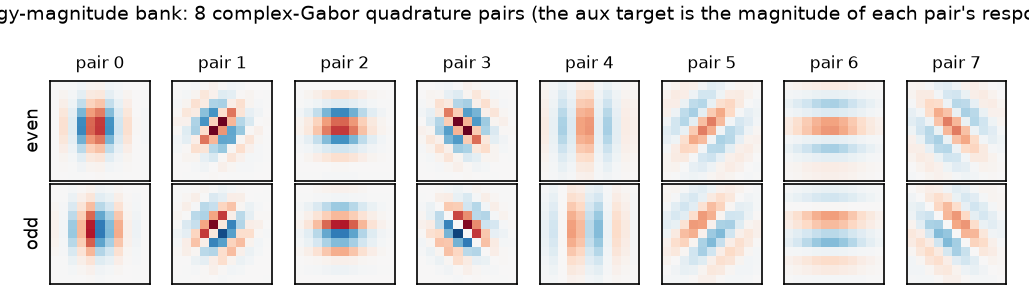
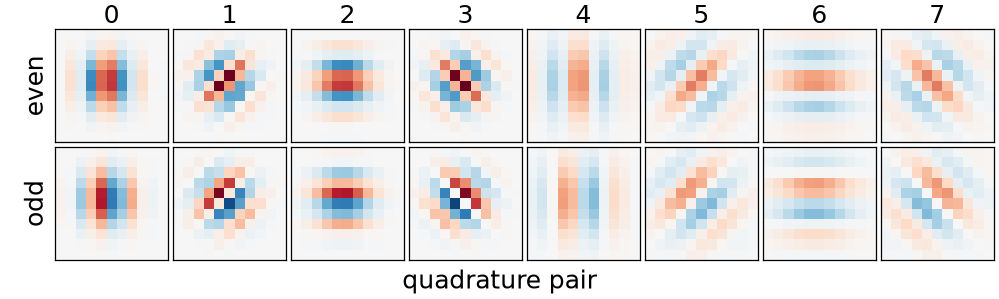
Figure 2: single column, panels packed edge to edge
Two changes, one motivating the other. Back to a single-column figure, and
the inter-panel padding cut from matplotlib's default to near zero: at
3.33in every point of padding is a point the 11x11 kernels do not get, and
the kernels are the entire content of this figure. tight_layout is
deliberately not used, since it reserves room for per-axes labels that the
shared row and column headings make unnecessary.

The filters are now larger than they were at full text width, because the
gaps were taking more of the figure than the width was giving. Also raised
to 300 dpi, since the panels are small enough for the kernel grid to alias
at 150.

diff --git a/analysis/visualize_features.py b/analysis/visualize_features.py
@@ -365,27 +365,35 @@ def fig_cam(models, test_ds, device, out, cell, dataset, loader,
 
 
 def fig_bank(out):
-    """The prior itself: 9 quadrature pairs of the energy-magnitude bank."""
+    """The prior itself: the quadrature pairs of the energy-magnitude bank.
+
+    Single-column, and the panels are packed nearly edge to edge: at 3.33in
+    every point of inter-axes padding is a point the 11x11 kernels do not get,
+    and the kernels are the content. tight_layout is deliberately NOT used
+    here -- it reserves space for labels that the shared row/column headings
+    have already made unnecessary.
+    """
     from momentstem import EnergyStem
 
     stem = EnergyStem(feature_type="magnitude")
     even, odd = stem.even.squeeze(1), stem.odd.squeeze(1)   # (n_pairs, k, k)
     n = even.shape[0]
-    fig, axes = plt.subplots(2, n, figsize=(FIGW_WIDE, FIGW_WIDE * 0.30))
+    fig, axes = plt.subplots(2, n, figsize=(FIGW, FIGW * 0.30))
     lim = float(max(even.abs().max(), odd.abs().max()))
     for i in range(n):
         for r, bank in enumerate((even, odd)):
             ax = axes[r, i]
             ax.imshow(bank[i].numpy(), cmap="RdBu_r", vmin=-lim, vmax=lim)
             ax.set_xticks([]), ax.set_yticks([])
-        axes[0, i].set_title(f"pair {i}", fontsize=8)
-    axes[0, 0].set_ylabel("even", fontsize=8.5)
-    axes[1, 0].set_ylabel("odd", fontsize=8.5)
-    fig.suptitle(f"energy-magnitude bank: {n} complex-Gabor quadrature pairs "
-                 "(the aux target is the magnitude of each pair's response)",
-                 fontsize=9)
-    fig.tight_layout()
-    fig.savefig(os.path.join(out, "bank_gabor.png"), dpi=150)
+            for sp in ax.spines.values():
+                sp.set_linewidth(0.3)
+        axes[0, i].set_title(f"{i}", fontsize=6, pad=1.5)
+    axes[0, 0].set_ylabel("even", fontsize=6, labelpad=1.5)
+    axes[1, 0].set_ylabel("odd", fontsize=6, labelpad=1.5)
+    fig.text(0.5, 0.035, "quadrature pair", ha="center", fontsize=6)
+    fig.subplots_adjust(left=0.055, right=0.995, top=0.90, bottom=0.13,
+                        wspace=0.04, hspace=0.04)
+    fig.savefig(os.path.join(out, "bank_gabor.png"), dpi=300)
     plt.close(fig)
 
 

diff --git a/paper/sections/s2_methods.tex b/paper/sections/s2_methods.tex
@@ -76,7 +76,7 @@ numerical values, so no measurement can silently drift with a library
 version.
 
 \subsection{The prior: MomentAux}\label{sec:momentaux}
-\begin{figure*}[t]
+\begin{figure}[t]
 \centering
 \includegraphics[width=\linewidth]{figs_explain/bank_gabor.png}
 \caption{The knowledge source, in full. The eight complex Gabor
@@ -88,7 +88,7 @@ is fixed before any training, identical for every dataset, backbone and
 data fraction in the study, and fingerprinted by a regression test so
 that no result silently changes bank.}
 \label{fig:bank}
-\end{figure*}
+\end{figure}
 \paragraph{The knowledge source.} The bank consists of $N{=}8$ complex
 Gabor quadrature pairs, two spatial scales $\sigma \in \{2,3\}$ crossed
 with four orientations $\theta \in \{0, \pi/4, \pi/2, 3\pi/4\}$; each
